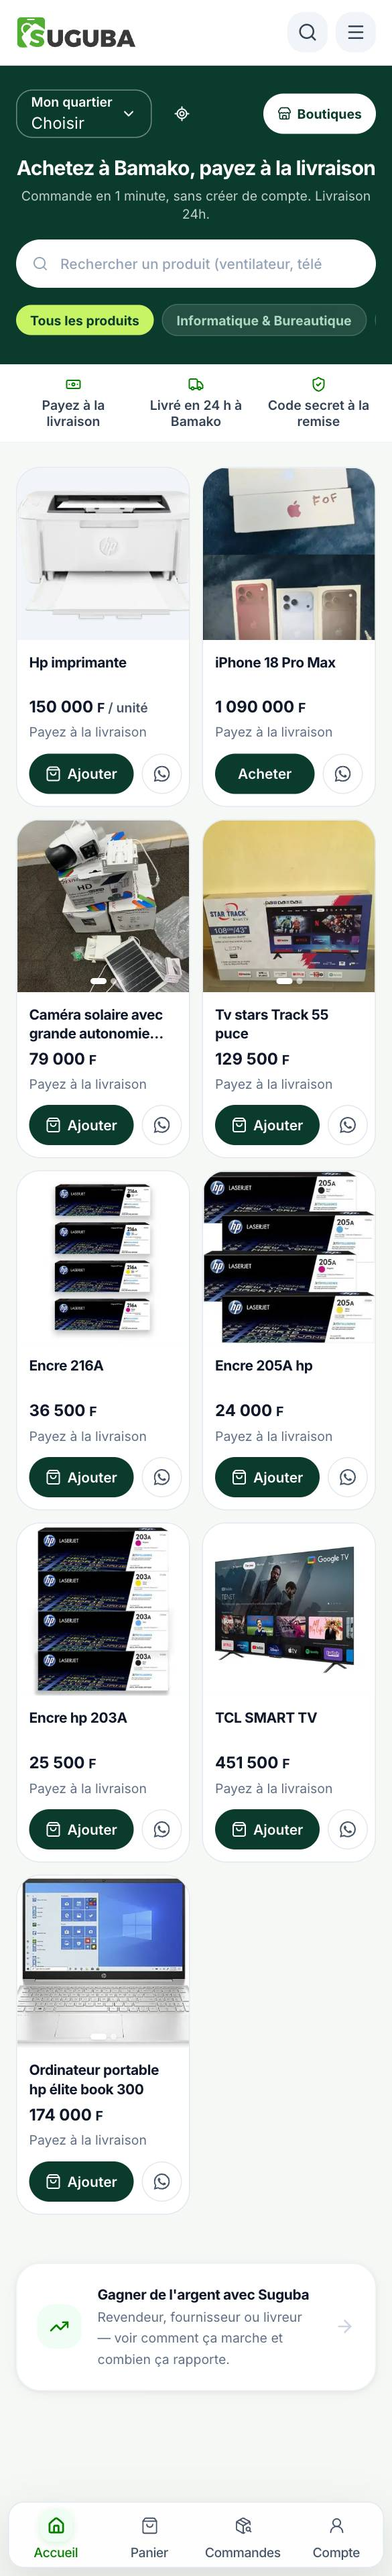
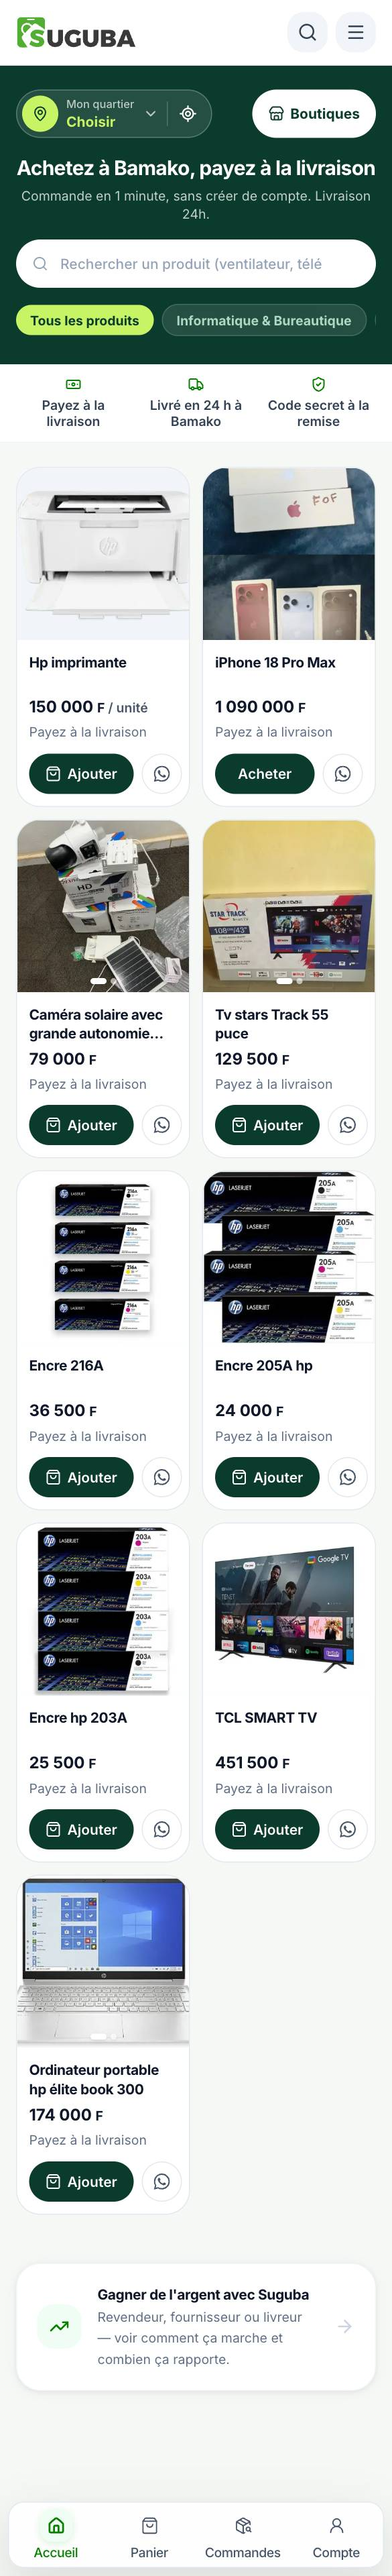
Accueil : sélecteur « Mon quartier » redessiné en une seule pilule
Avant : un cadre carré à deux lignes et une cible GPS isolée, sans fond,
à côté de la pilule « Boutiques ». Désormais une pilule de 48 px : repère
citron, quartier en gras (« Choisir » en citron tant qu'il n'y en a pas),
localisation rangée dans la pilule. Même rendu sur /boutiques ; les champs
« Quartier » des formulaires ne changent pas. ChoicePicker accepte un
déclencheur dessiné par l'appelant (nu, rendu, listeClassName).

Changed region(s): [[0.0308, 0.0312, 0.5538, 0.0625], [0.6462, 0.0312, 0.9231, 0.0625]]

diff --git a/src/components/common/NeighborhoodPicker.tsx b/src/components/common/NeighborhoodPicker.tsx
@@ -84,16 +84,46 @@ export default function NeighborhoodPicker({
   };
 
   const choix = [...BAMAKO_NEIGHBORHOODS.flatMap(g => g.quartiers.map(q => ({ valeur:q, libelle:q, groupe:g.commune }))), { valeur:'Autre quartier', libelle:'Autre quartier', groupe:'Autres' }];
-  return <div className={`${variante === 'puce' ? 'flex items-center gap-2 min-w-0' : 'space-y-1'} ${className}`}>
+
+  /* Pastille sur fond sombre (2026-10-03). Avant : un cadre carré à deux
+     lignes (« Mon quartier » en gras, « Choisir » plus gros que lui) et une
+     cible GPS isolée à côté, sans fond — deux formes différentes de la
+     pilule « Boutiques » voisine. Désormais une seule pilule de même
+     hauteur : repère citron, quartier en gras (en citron tant qu'il reste à
+     choisir), et la localisation rangée dans la même pilule. */
+  if (variante === 'puce') {
+    return <div className={`inline-flex items-center max-w-full h-12 rounded-full bg-white/10 ring-1 ring-inset ring-white/25 pl-1.5 pr-1 ${className}`}>
+      <ChoicePicker nu id={id} valeur={value} choix={choix} invalide={invalide} placeholder={placeholder}
+        ariaLabel={id ? undefined : prefixe || 'Quartier'} className="min-w-0" listeClassName="min-w-[16rem]"
+        triggerClassName="h-11 pr-2 rounded-full text-white"
+        rendu={(selection, ouvert) => <>
+          <span aria-hidden="true" className="w-9 h-9 shrink-0 rounded-full bg-suguba-citron text-suguba-profond flex items-center justify-center">
+            <MapPin className="w-4 h-4" />
+          </span>
+          <span className="min-w-0">
+            {prefixe && <span className="block text-[11px] leading-4 font-medium text-white/70">{prefixe}</span>}
+            <span title={selection?.libelle} className={`block truncate text-sm leading-5 font-bold ${selection ? 'text-white' : 'text-suguba-citron'}`}>{selection?.libelle || placeholder}</span>
+          </span>
+          <ChevronDown aria-hidden="true" className={`w-4 h-4 shrink-0 text-white/70 transition-transform ${ouvert ? 'rotate-180' : ''}`} />
+        </>}
+        onChange={q=>{onChange(q);onPosition?.(null);}} />
+      <span aria-hidden="true" className="w-px h-6 shrink-0 bg-white/20" />
+      <button type="button" onClick={utiliserPositionActuelle} disabled={localisationEnCours}
+        aria-label="Utiliser ma position actuelle" title="Utiliser ma position actuelle"
+        className="w-10 h-10 shrink-0 rounded-full flex items-center justify-center text-white hover:bg-white/10 disabled:opacity-60 focus:outline-none focus-visible:ring-2 focus-visible:ring-suguba-citron">
+        {localisationEnCours ? <SugubaLoader aria-hidden="true" className="w-4 h-4" /> : <LocateFixed aria-hidden="true" className="w-[18px] h-[18px]" />}
+      </button>
+    </div>;
+  }
+
+  return <div className={`space-y-1 ${className}`}>
     <ChoicePicker id={id} valeur={value} choix={choix} invalide={invalide} placeholder={placeholder}
-      ariaLabel={id ? undefined : prefixe || 'Quartier'} prefixe={variante === 'puce' ? prefixe : undefined}
-      className={variante === 'puce' ? 'flex-1 min-w-0' : ''}
-      triggerClassName={variante === 'puce' ? 'bg-suguba-profond text-white border-white/40' : ''}
+      ariaLabel={id ? undefined : prefixe || 'Quartier'}
       onChange={q=>{onChange(q);onPosition?.(null);}} />
     <button type="button" onClick={utiliserPositionActuelle} disabled={localisationEnCours}
-      aria-label="Utiliser ma position actuelle" className={`min-h-11 min-w-11 flex items-center justify-center gap-2 rounded-xl px-2 text-xs font-semibold focus-visible:outline-2 ${variante === 'puce' ? 'bg-suguba-profond text-white' : 'text-suguba-profond hover:bg-slate-100'}`}>
+      aria-label="Utiliser ma position actuelle" className="min-h-11 min-w-11 flex items-center justify-center gap-2 rounded-xl px-2 text-xs font-semibold focus-visible:outline-2 text-suguba-profond hover:bg-slate-100">
       {localisationEnCours ? <SugubaLoader aria-hidden="true" className="w-4 h-4" /> : <LocateFixed aria-hidden="true" className="w-4 h-4" />}
-      {variante !== 'puce' && (localisationEnCours ? 'Localisation…' : 'Utiliser ma position actuelle')}
+      {localisationEnCours ? 'Localisation…' : 'Utiliser ma position actuelle'}
     </button>
   </div>;
 }

diff --git a/src/components/ui/ChoicePicker.tsx b/src/components/ui/ChoicePicker.tsx
@@ -5,10 +5,15 @@ import { useFieldContext } from './Field';
 
 export interface Choix { valeur: string; libelle: string; detail?: string; groupe?: string }
 /** Sélection seule : le focus reste sur le champ, l’option active est annoncée. */
-export default function ChoicePicker({ id, valeur, choix, onChange, placeholder = 'Choisir…', invalide = false, ariaLabel, className = '', triggerClassName = '', prefixe }: {
+export default function ChoicePicker({ id, valeur, choix, onChange, placeholder = 'Choisir…', invalide = false, ariaLabel, className = '', triggerClassName = '', prefixe, nu = false, rendu, listeClassName = '' }: {
   id?: string; valeur: string; choix: Choix[]; onChange: (valeur: string) => void;
   placeholder?: string; invalide?: boolean; ariaLabel?: string; className?: string;
   triggerClassName?: string; prefixe?: string;
+  /** Déclencheur sans habillage de champ (bordure, fond, hauteur) : l'appelant le dessine. */
+  nu?: boolean;
+  /** Contenu du déclencheur à la place du libellé + chevron par défaut. */
+  rendu?: (selection: Choix | undefined, ouvert: boolean) => React.ReactNode;
+  listeClassName?: string;
 }) {
   const generated = useId(); const field = useFieldContext();
   const controlId = id || field?.id || generated;
@@ -51,12 +56,16 @@ export default function ChoicePicker({ id, valeur, choix, onChange, placeholder 
       aria-controls={listId} aria-expanded={ouvert} aria-activedescendant={ouvert && choix[actif] ? `${listId}-${actif}` : undefined}
       aria-invalid={invalide || field?.invalid} aria-required={field?.required} aria-describedby={field?.description} aria-label={ariaLabel}
       onClick={()=>ouvert?setOuvert(false):ouvrir()} onKeyDown={surTouche} onBlur={()=>setOuvert(false)}
-      className={`w-full min-h-12 flex items-center justify-between gap-2 border rounded-2xl px-3.5 text-base sm:text-sm text-left focus:outline-none focus:ring-2 focus:ring-suguba-profond focus:border-suguba-profond ${invalide || field?.invalid?'border-rose-500':'border-slate-200'} ${triggerClassName || 'bg-white text-slate-900'}`}>
-      <span className="min-w-0">{prefixe && <span className="block text-xs font-semibold">{prefixe}</span>}<span className="block truncate">{selection?.libelle || placeholder}{selection?.detail && <span> · {selection.detail}</span>}</span></span>
-      <ChevronDown aria-hidden="true" className={`w-4 h-4 shrink-0 ${ouvert?'rotate-180':''}`} />
+      className={nu
+        ? `w-full flex items-center gap-2 text-left focus:outline-none focus-visible:ring-2 focus-visible:ring-suguba-citron ${invalide || field?.invalid ? 'ring-2 ring-rose-400' : ''} ${triggerClassName}`
+        : `w-full min-h-12 flex items-center justify-between gap-2 border rounded-2xl px-3.5 text-base sm:text-sm text-left focus:outline-none focus:ring-2 focus:ring-suguba-profond focus:border-suguba-profond ${invalide || field?.invalid?'border-rose-500':'border-slate-200'} ${triggerClassName || 'bg-white text-slate-900'}`}>
+      {rendu ? rendu(selection, ouvert) : <>
+        <span className="min-w-0">{prefixe && <span className="block text-xs font-semibold">{prefixe}</span>}<span className="block truncate">{selection?.libelle || placeholder}{selection?.detail && <span> · {selection.detail}</span>}</span></span>
+        <ChevronDown aria-hidden="true" className={`w-4 h-4 shrink-0 ${ouvert?'rotate-180':''}`} />
+      </>}
     </button>
     <ul id={listId} role="listbox" aria-label={ariaLabel || 'Choix disponibles'} hidden={!ouvert}
-      className="absolute z-30 mt-1.5 w-full min-w-0 max-h-72 overflow-y-auto bg-white border border-slate-200 rounded-2xl shadow-float p-1.5">
+      className={`absolute z-30 mt-1.5 w-full min-w-0 max-h-72 overflow-y-auto bg-white border border-slate-200 rounded-2xl shadow-float p-1.5 ${listeClassName}`}>
       {choix.map((c,i)=><React.Fragment key={c.valeur}>
         {c.groupe && c.groupe!==choix[i-1]?.groupe && <li role="presentation" className="px-3 pt-2 pb-1 text-xs font-bold text-slate-600">{c.groupe}</li>}
         <li id={`${listId}-${i}`} role="option" aria-selected={valeur===c.valeur}

diff --git a/src/app/page.tsx b/src/app/page.tsx
@@ -133,9 +133,9 @@ export default function HomePage() {
               />
               <Link
                 href={quartierSitue ? `/boutiques?quartier=${encodeURIComponent(quartierSitue)}` : '/boutiques'}
-                className="shrink-0 inline-flex items-center gap-1.5 rounded-full bg-white text-suguba-profond text-xs font-bold px-3.5 min-h-[40px] hover:bg-emerald-50 transition-colors"
+                className="shrink-0 inline-flex items-center gap-1.5 rounded-full bg-white text-suguba-profond text-sm font-bold px-4 h-12 hover:bg-suguba-menthe transition-colors"
               >
-                <Store className="w-3.5 h-3.5" />
+                <Store className="w-4 h-4" />
                 Boutiques<span className="hidden sm:inline"> proches</span>
               </Link>
             </div>

diff --git a/REPRISE.md b/REPRISE.md
@@ -2,6 +2,8 @@
 
 > **2 octobre 2026 — audit UI/UX publié en production.** Demande de fusion #1 (`ux/lot-8-arbitrages` → `main`, commit `24e4656`) : sécurité `products` + lots 1 à 8. Vercel a déployé la nouvelle version (21 h 06) ; vérifié en lecture seule : accueil (bande de garanties), fiche produit (« Livraison à Bamako : 1 500 F »), formulaire de commande commun (total serveur), diaspora, panier, suivi, connexion, page 404 en français ; espaces pro toujours redirigés vers la connexion. SQL `A-EXECUTER-2026-10-02-droits-products.sql` exécuté par le fondateur. Reste : renseigner le lieu de la caisse livreurs (Paramètres › Livraison).
 
+> **3 octobre 2026 — sélecteur « Mon quartier » redessiné (en local, branche `ux/selecteur-quartier`).** `NeighborhoodPicker` variante `puce` (accueil, `/boutiques`) : une seule pilule de 48 px comme « Boutiques » (repère citron, quartier en gras, « Choisir » en citron, localisation dans la pilule). `ChoicePicker` accepte `nu`, `rendu`, `listeClassName` (champ par défaut inchangé). `tests/selecteur-quartier.test.cjs` (échoue sur l'ancien code) ; 497 tests réussis. Aucune migration.
+
 > **2 octobre 2026 — captures du guide refaites (en ligne).** 70 captures : 26 pages publiques sur la vraie base (`npm run guide:captures` contre `npm run dev`), 44 pages pro sur la copie locale isolée avec les comptes fictifs [QA] : `COMPTES_QA=audit-local/2026-10-01-integral/comptes.json BASE=http://127.0.0.1:3300 npm run guide:captures -- <pages pro>` (la connexion de démonstration mène à la page de connexion depuis la vérification des sessions). `scripts/guide/capturer.mjs` bloque toute requête qui écrit, retire le bandeau « Installer l'application » et ne masque plus les montants de 8 chiffres suivis de « F ».
 >
 > **2 octobre 2026 — audit UI/UX, lot 8 « arbitrages » (en ligne).** REV-10 : `commandePourRevendeur` (`src/lib/acces-contacts.ts`) masque le numéro du client (`telephoneMasque`, « •• 34 56 ») hors commande en cours ; « Mes clients » utilise la même fonction. PUB-10 : formulaire commun `src/components/commande/FormulaireCommande.tsx` + règles `src/lib/formulaire-commande.ts` pour `/p/<produit>/commander` (694 → 348 lignes) et `/panier` (erreur au champ, promo replié, devis en erreur géré, minimum, relais interdit si remise vendeur, bandeau de reprise, une seule commande → `/order-success`). Lot 4 : réglage `caisseLivreurs {lieu, horaires}` dans `platform_settings.valeurs` (aucune migration), remis par `/api/driver/caisse` seulement ; vue d'ensemble « Aujourd'hui » (`syntheseFinance` → `appelsEnRetard`, seuil 4 h) ; `BandeauDemarrage` supprimé. `tests/audit-ui-ux-lot8.test.cjs` (7 tests) ; `acces-contacts` et lot 5 adaptés ; 495 tests réussis ; compilation isolée réussie ; trois commandes fictives [QA] passées sur la copie locale. Accès revendeur au numéro non journalisé (contrainte `role` de `acces_coordonnees`). Aucune migration.
